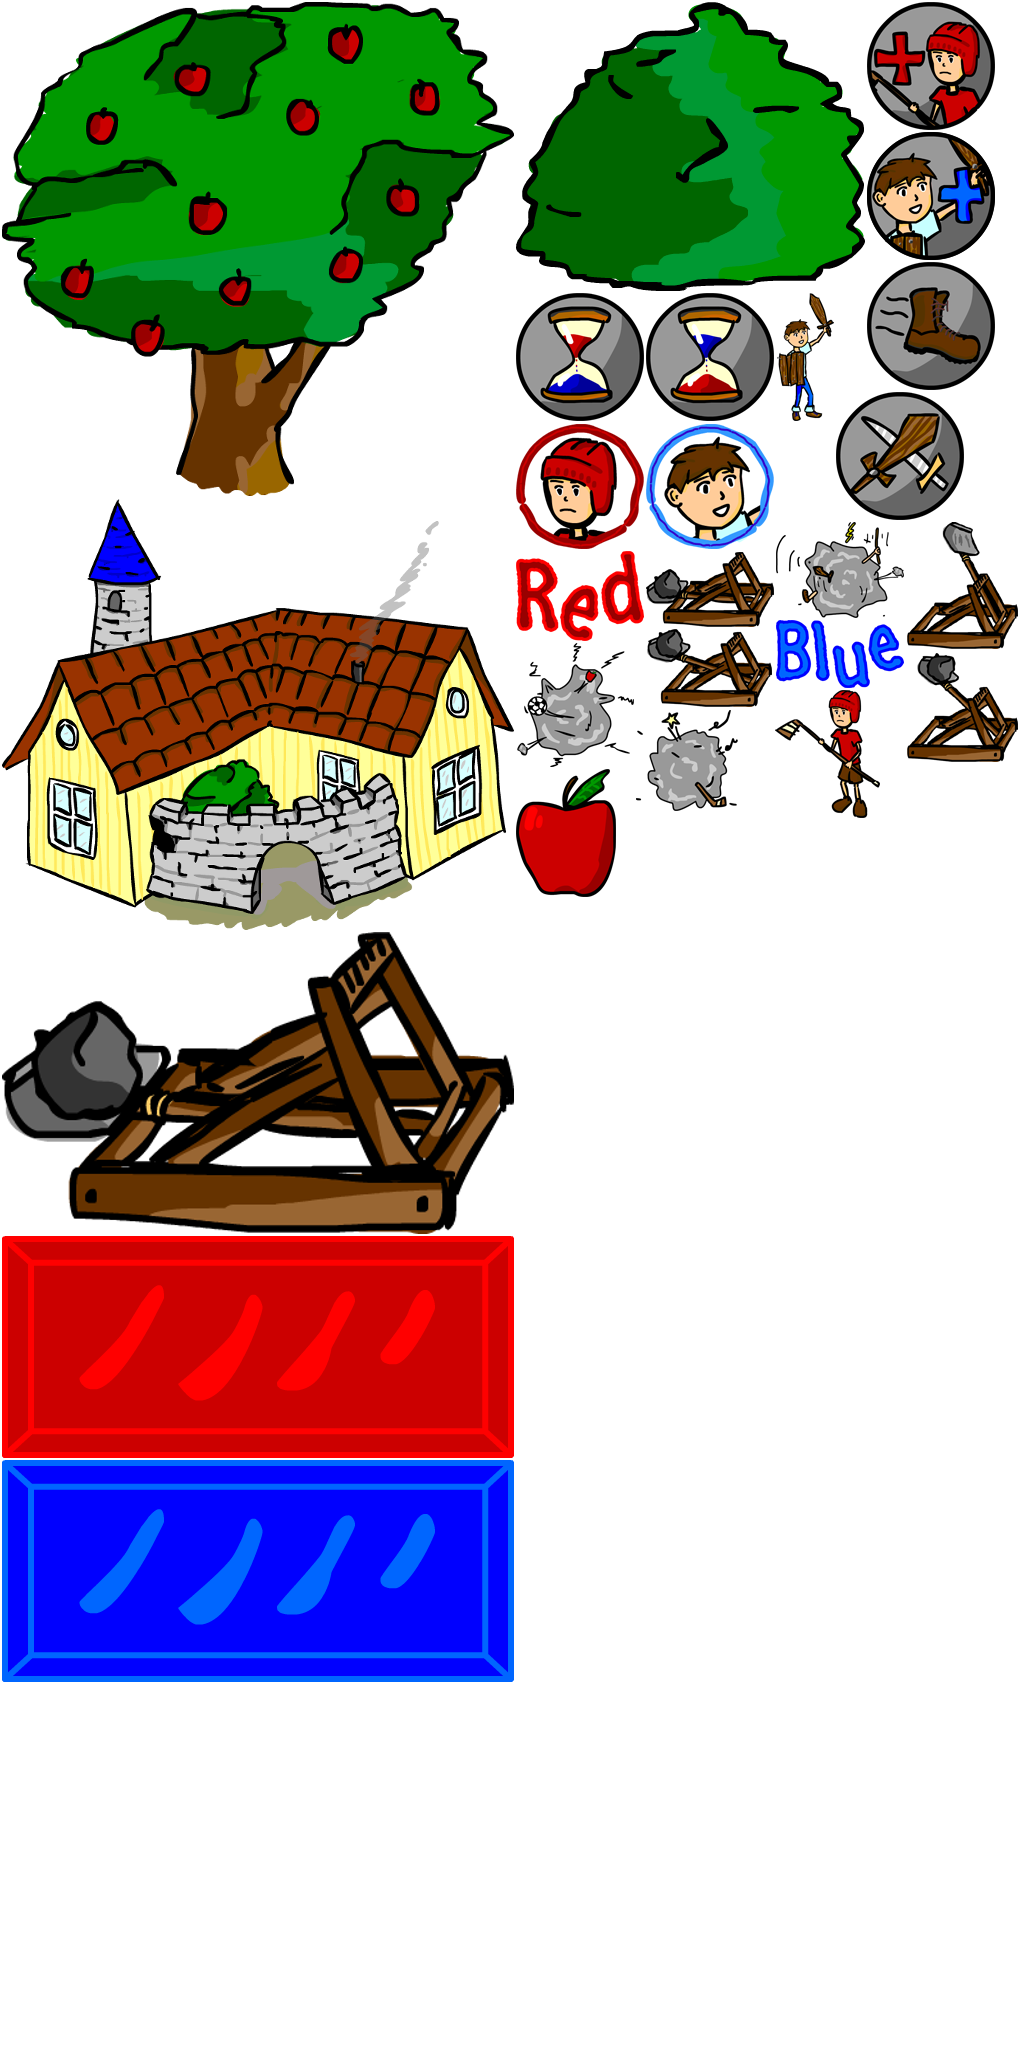
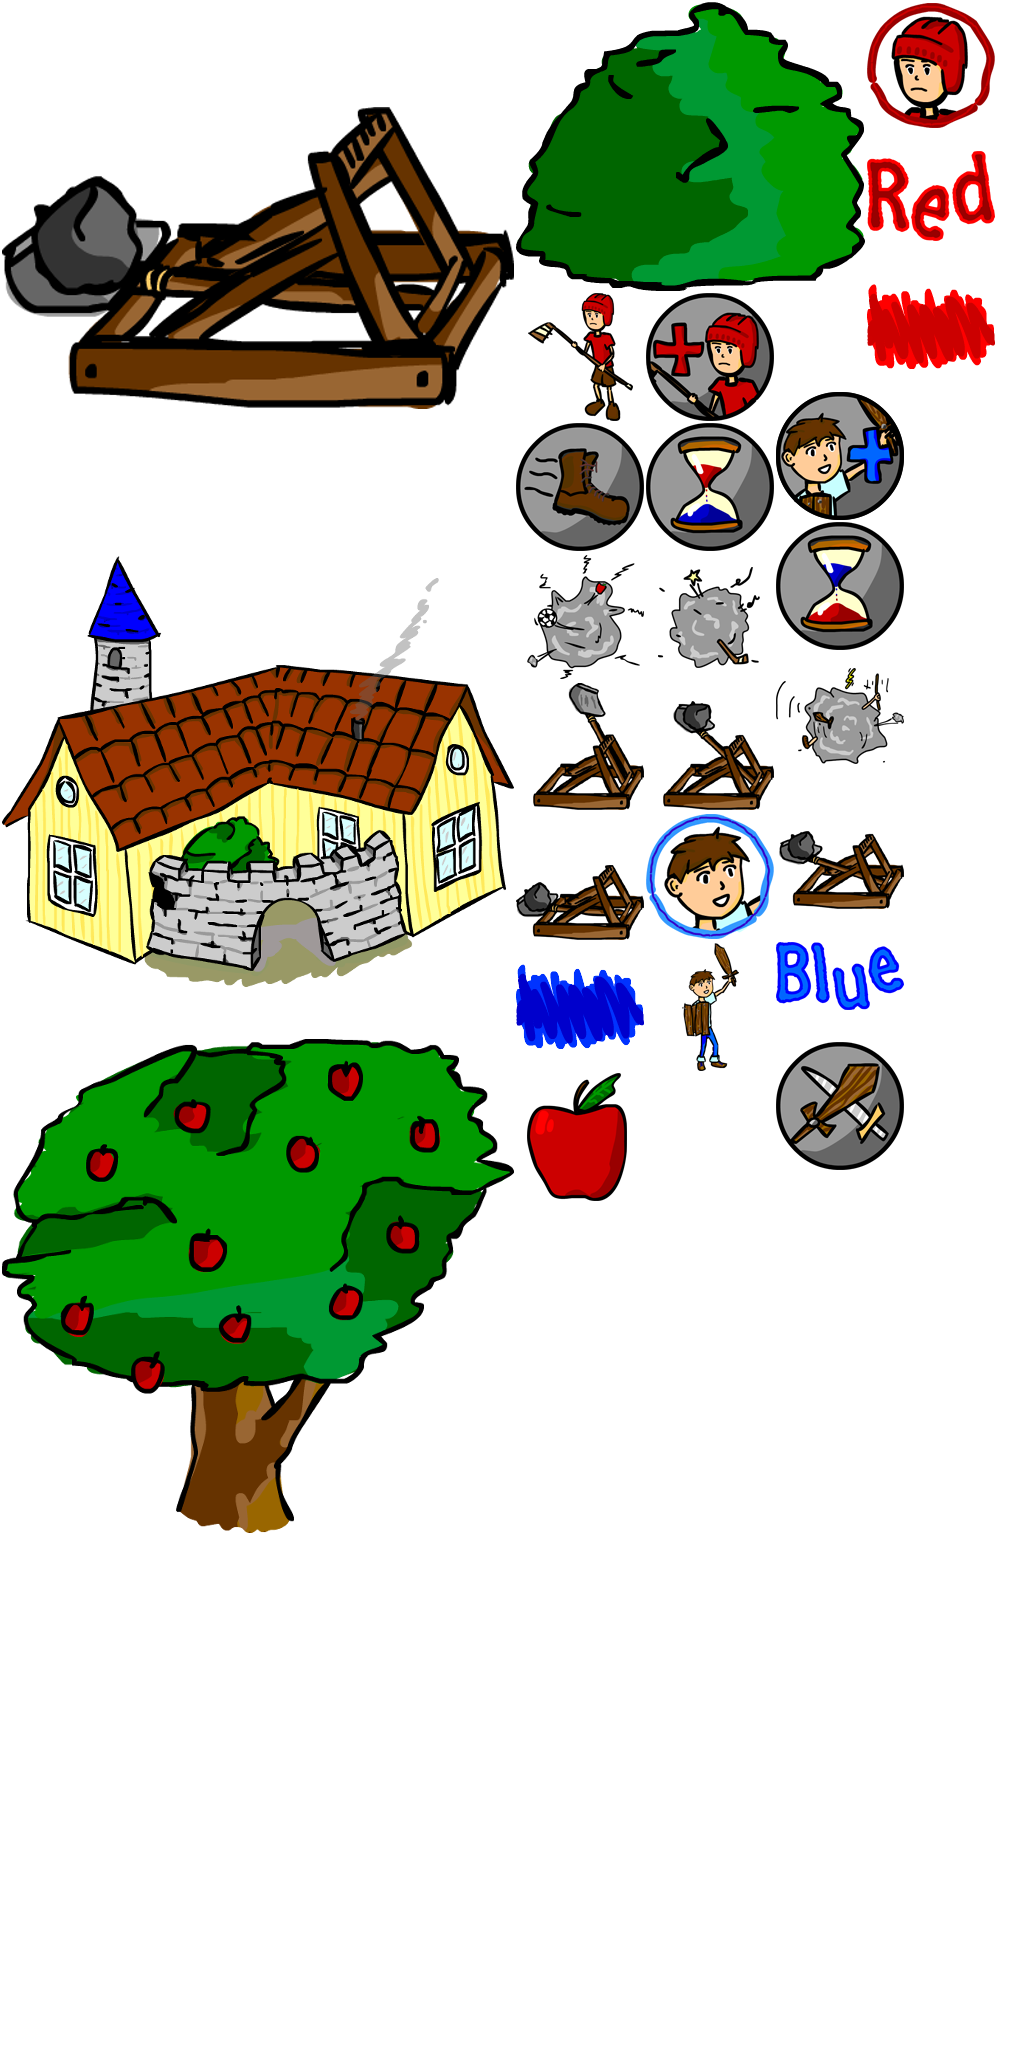
Added the catapult animation

diff --git a/childs-play/src/cloudymoose/childsplay/world/AnimationRunner.java b/childs-play/src/cloudymoose/childsplay/world/AnimationRunner.java
@@ -5,6 +5,9 @@ import java.util.HashMap;
 import java.util.List;
 import java.util.Map;
 
+import cloudymoose.childsplay.world.units.Unit;
+
+import com.badlogic.gdx.Gdx;
 import com.badlogic.gdx.assets.AssetManager;
 import com.badlogic.gdx.audio.Sound;
 import com.badlogic.gdx.graphics.g2d.Animation;
@@ -20,6 +23,7 @@ public class AnimationRunner {
 
 	public AnimationRunner(TextureAtlas atlas, AssetManager am) {
 		animations.put(AnimationType.Melee, new Animation(0.05f, atlas.findRegions("Cloud"), Animation.LOOP));
+		animations.put(AnimationType.CatapultFire, new Animation(0.3f, atlas.findRegions("CatapultFire")));
 		sounds.put(AnimationType.Melee, am.get("sounds/fight.mp3", Sound.class));
 	}
 
@@ -38,15 +42,40 @@ public class AnimationRunner {
 		boolean block = false;
 
 		for (AnimationData data : ongoingAnimations) {
+			for (Unit u : data.toHide) {
+				u.setVisible(false);
+			}
+
 			data.stateTime += dt;
 			Animation a = animations.get(data.type);
 			TextureRegion texture = a.getKeyFrame(data.stateTime);
-			sb.draw(texture, data.position.x - texture.getRegionWidth() / 2,
-					data.position.y - texture.getRegionHeight() / 2);
+
+			float xRatio = data.type.maxWidth / texture.getRegionWidth();
+			float yRatio = data.type.maxHeight / texture.getRegionHeight();
+
+			float drawWidth, drawHeight;
+			if (xRatio < yRatio) {
+				drawWidth = data.type.maxWidth;
+				drawHeight = texture.getRegionHeight() * xRatio;
+			} else if (yRatio != Float.POSITIVE_INFINITY) {
+				drawWidth = texture.getRegionWidth() * yRatio;
+				drawHeight = data.type.maxHeight;
+			} else {
+				drawWidth = texture.getRegionWidth();
+				drawHeight = texture.getRegionHeight();
+			}
+
+			Gdx.app.log("AR", drawWidth + " " + drawHeight);
+
+			sb.draw(texture, data.position.x - drawWidth / 2,
+					data.position.y - drawHeight / 2, drawWidth, drawHeight);
 
 			if (!data.loop) {
 				if (a.isAnimationFinished(data.stateTime)) {
 					finishedAnimations.add(data);
+					for (Unit u : data.toHide) {
+						u.setVisible(true);
+					}
 				} else {
 					block = block || data.isBlocking;
 				}

diff --git a/childs-play/src/cloudymoose/childsplay/world/WorldRenderer.java b/childs-play/src/cloudymoose/childsplay/world/WorldRenderer.java
@@ -2,6 +2,7 @@ package cloudymoose.childsplay.world;
 
 import java.util.HashMap;
 import java.util.Map;
+import java.util.Queue;
 
 import cloudymoose.childsplay.world.commands.MoveCommand;
 import cloudymoose.childsplay.world.hextiles.HexTile;
@@ -60,7 +61,7 @@ public class WorldRenderer {
 		MoveCommand.Sounds.add(assetManager.get("sounds/hereWeGo.mp3", Sound.class));
 		MoveCommand.Sounds.add(assetManager.get("sounds/yes.mp3", Sound.class));
 
-		unitTextures.put(Catapult.class, new TexturePair(atlasUI.findRegion("catapult")));
+		unitTextures.put(Catapult.class, new TexturePair(atlasUI.findRegion("CatapultFire")));
 		unitTextures.put(Castle.class, new TexturePair(atlasUI.findRegion("castle")));
 		unitTextures.put(Child.class,
 				new TexturePair(atlasUI.findRegion("BlueChild"), atlasUI.findRegion("RedChild")));
@@ -78,6 +79,7 @@ public class WorldRenderer {
 		if (world.getPreferredCameraFocus() != null) {
 			// TODO: jumps at the beginning. It should be smoothed or something...
 			setCameraPosition(world.getPreferredCameraFocus());
+			world.setPreferredCameraFocus(null);
 		}
 
 		sb.begin();
@@ -101,7 +103,7 @@ public class WorldRenderer {
 
 			// Render units
 			Unit unit = tile.value.getOccupant();
-			if (unit != null) {
+			if (unit != null && unit.isVisible()) {
 				this.renderUnit(sb, unit, Constants.PLAYER_COLORS[unit.getPlayerId()]);
 
 			}
@@ -155,8 +157,10 @@ public class WorldRenderer {
 		sb.draw(flag, tilePosition.x - drawXOffset, tilePosition.y, drawWidth, drawHeight);
 	}
 
-	public void addAnimationData(AnimationData data) {
-		animationRunner.addAnimationData(data);
+	public void addAnimationData(Queue<AnimationData> data) {
+		while (!data.isEmpty()) {
+			animationRunner.addAnimationData(data.remove());
+		}
 	}
 
 	private void renderUnit(SpriteBatch sb, Unit unit, Color color) {

diff --git a/childs-play/src/cloudymoose/childsplay/world/World.java b/childs-play/src/cloudymoose/childsplay/world/World.java
@@ -54,6 +54,7 @@ public class World {
 	// Command execution and creation data
 	private CommandBuilder selectedCommandBuilder;
 	private CommandRunner ongoingCommand;
+	private final Queue<AnimationData> ongoingAnimationData = new LinkedList<AnimationData>();
 	public final Set<HexTile<?>> targetableTiles = new HashSet<HexTile<?>>();
 	private Vector3 preferredCameraFocus;
 
@@ -115,9 +116,8 @@ public class World {
 		}
 	}
 
-	public AnimationData getOngoingAnimationData() {
-		if (ongoingCommand == null) return null;
-		return ongoingCommand.getAnimationData();
+	public Queue<AnimationData> getOngoingAnimationData() {
+		return ongoingAnimationData;
 	}
 
 	/** Environment stuff: area control etc. */
@@ -126,7 +126,7 @@ public class World {
 		Set<Area> areaSet = new HashSet<Area>();
 		for (Area a : map.areas) {
 			if (a.getOwner() == currentPlayer && !a.isContested()) {
-				a.getBenefits(this);
+				ongoingAnimationData.addAll(a.getBenefits(this));
 				areaSet.add(a);
 			}
 		}
@@ -220,6 +220,7 @@ public class World {
 		// Start the command
 		ongoingCommand = command.execute(this);
 		ongoingCommand.start();
+		ongoingAnimationData.add(ongoingCommand.getAnimationData());
 
 		if (!replayMode) {
 			// Register it
@@ -360,6 +361,11 @@ public class World {
 			if (p.id == id) return p;
 		}
 		return null;
+	}
+
+	public void setPreferredCameraFocus(Vector3 position) {
+		preferredCameraFocus = position == null ? null : new Vector3(position);
+
 	}
 
 }

diff --git a/childs-play/src/cloudymoose/childsplay/world/commands/AttackCommand.java b/childs-play/src/cloudymoose/childsplay/world/commands/AttackCommand.java
@@ -3,7 +3,6 @@ package cloudymoose.childsplay.world.commands;
 import cloudymoose.childsplay.world.AnimationData;
 import cloudymoose.childsplay.world.AnimationType;
 import cloudymoose.childsplay.world.World;
-import cloudymoose.childsplay.world.units.Child;
 import cloudymoose.childsplay.world.units.Unit;
 
 import com.badlogic.gdx.math.Vector3;
@@ -64,9 +63,9 @@ public class AttackCommand extends Command {
 		@Override
 		public AnimationData getAnimationData() {
 			// Return it only once.
-			if (meleeAnimation == null && target instanceof Child) {
+			if (meleeAnimation == null) {
 				Vector3 meleePosition = new Vector3(actor.position).add(target.position).scl(.5f);
-				meleeAnimation = new AnimationData(AnimationType.Melee, meleePosition, true, true);
+				meleeAnimation = new AnimationData(AnimationType.Melee, meleePosition, true, true, actor, target);
 
 				// Stop looping the animation in a second using this ugly thread hack
 				Runnable turnOffLoop = new Runnable() {
@@ -74,7 +73,8 @@ public class AttackCommand extends Command {
 					public void run() {
 						try {
 							Thread.sleep(1000);
-						} catch (InterruptedException e) { }
+						} catch (InterruptedException e) {
+						}
 						meleeAnimation.loop = false;
 					}
 				};

diff --git a/childs-play/src/cloudymoose/childsplay/screens/hud/HPBars.java b/childs-play/src/cloudymoose/childsplay/screens/hud/HPBars.java
@@ -4,7 +4,6 @@ import cloudymoose.childsplay.world.Constants;
 import cloudymoose.childsplay.world.Player;
 
 import com.badlogic.gdx.assets.AssetManager;
-import com.badlogic.gdx.graphics.Texture;
 import com.badlogic.gdx.graphics.g2d.TextureAtlas;
 import com.badlogic.gdx.graphics.g2d.TextureRegion;
 import com.badlogic.gdx.scenes.scene2d.ui.Image;
@@ -40,10 +39,8 @@ public class HPBars extends Table {
 		// debug();
 		int nbCells = (Constants.PLAYER_HEALTH_POINTS * 2) + 1; // 1 for each HP + 1 for the labels
 		TextureAtlas atlas = assetManager.get(Constants.UNITS_ICONS_ATLAS_PATH);
-		// blueHpTexture = atlas.findRegion("BlueHp");
-		// redHpTexture = atlas.findRegion("RedHp");
-		blueHpTexture = new TextureRegion((Texture) assetManager.get("game/BlueLife.png"));
-		redHpTexture = new TextureRegion((Texture) assetManager.get("game/RedLife.png"));
+		blueHpTexture = atlas.findRegion("BlueLife");
+		redHpTexture = atlas.findRegion("RedLife");
 
 		blueHp = blue.getHp();
 		redHp = red.getHp();

diff --git a/childs-play/src/cloudymoose/childsplay/world/units/Catapult.java b/childs-play/src/cloudymoose/childsplay/world/units/Catapult.java
@@ -1,5 +1,7 @@
 package cloudymoose.childsplay.world.units;
 
+import cloudymoose.childsplay.world.AnimationData;
+import cloudymoose.childsplay.world.AnimationType;
 import cloudymoose.childsplay.world.Player;
 import cloudymoose.childsplay.world.World;
 
@@ -11,10 +13,12 @@ public class Catapult extends EnvironmentUnit {
 	}
 
 	@Override
-	public void doEnvironmentalEffect(World world) {
-		for (Player p : world.getEnemyPlayers(world.getCurrentPlayer(), false)) {
+	public AnimationData doEnvironmentalEffect(World world) {
+		for (Player p : world.getEnemyPlayers(world.getCurrentPlayer(), true)) {
 			p.hit();
 		}
+		// return new AnimationData(AnimationType.CatapultFire, new Vector3(hitbox.x, hitbox.y, 0), true, false);
+		return new AnimationData(AnimationType.CatapultFire, position, true, false, this);
 	}
 
 }

diff --git a/childs-play/src/cloudymoose/childsplay/ChildsPlayGame.java b/childs-play/src/cloudymoose/childsplay/ChildsPlayGame.java
@@ -22,7 +22,6 @@ import com.badlogic.gdx.Gdx;
 import com.badlogic.gdx.InputMultiplexer;
 import com.badlogic.gdx.assets.AssetManager;
 import com.badlogic.gdx.audio.Sound;
-import com.badlogic.gdx.graphics.Texture;
 import com.badlogic.gdx.graphics.g2d.TextureAtlas;
 import com.badlogic.gdx.scenes.scene2d.ui.Skin;
 
@@ -111,8 +110,6 @@ public class ChildsPlayGame extends Game {
 		am.load(Constants.MENU_SKIN_JSON_PATH, Skin.class);
 		am.load(Constants.TILES_FLAGS_ATLAS_PATH, TextureAtlas.class);
 		am.load(Constants.UNITS_ICONS_ATLAS_PATH, TextureAtlas.class);
-		am.load("game/BlueLife.png", Texture.class);
-		am.load("game/RedLife.png", Texture.class);
 
 		am.load("sounds/fight.mp3", Sound.class);
 		am.load("sounds/ok.mp3", Sound.class);

diff --git a/childs-play/src/cloudymoose/childsplay/world/Area.java b/childs-play/src/cloudymoose/childsplay/world/Area.java
@@ -1,6 +1,7 @@
 package cloudymoose.childsplay.world;
 
 import java.util.AbstractCollection;
+import java.util.ArrayList;
 import java.util.Collection;
 import java.util.HashSet;
 import java.util.Iterator;
@@ -142,10 +143,13 @@ public class Area extends AbstractCollection<HexTile<TileData>> {
 		}
 	}
 
-	public void getBenefits(World world) {
+	public List<AnimationData> getBenefits(World world) {
+		List<AnimationData> animations = new ArrayList<AnimationData>();
 		for (EnvironmentUnit eu : benefitProviders) {
-			eu.doEnvironmentalEffect(world);
+			AnimationData a = eu.doEnvironmentalEffect(world);
+			if (a != null) animations.add(a);
 		}
+		return animations;
 	}
 
 	public int getControlPoints() {

diff --git a/childs-play/src/cloudymoose/childsplay/world/units/Unit.java b/childs-play/src/cloudymoose/childsplay/world/units/Unit.java
@@ -20,6 +20,7 @@ public abstract class Unit {
 	public final int id;
 	public final int size;
 	public final Rectangle hitbox;
+	private boolean visible;
 
 	public final int maxHealthPoints;
 	private int currentHealthPoints;
@@ -36,6 +37,7 @@ public abstract class Unit {
 		this.size = size;
 		hitbox = new Rectangle(0, 0, size, size);
 		hitbox.setCenter(position.x, position.y);
+		visible = true;
 
 		maxHealthPoints = hp;
 		currentHealthPoints = hp;
@@ -157,6 +159,14 @@ public abstract class Unit {
 		setPosition(tile.getPosition());
 
 		return this;
+	}
+
+	public void setVisible(boolean visible) {
+		this.visible = visible;
+	}
+
+	public boolean isVisible() {
+		return visible;
 	}
 
 }

diff --git a/childs-play/src/cloudymoose/childsplay/screens/hud/GameHUD.java b/childs-play/src/cloudymoose/childsplay/screens/hud/GameHUD.java
@@ -2,6 +2,7 @@ package cloudymoose.childsplay.screens.hud;
 
 import cloudymoose.childsplay.ChildsPlayGame;
 import cloudymoose.childsplay.screens.AbstractMenuStageManager;
+import cloudymoose.childsplay.screens.GameScreen;
 import cloudymoose.childsplay.world.Constants;
 import cloudymoose.childsplay.world.Player;
 import cloudymoose.childsplay.world.TileData;
@@ -53,6 +54,7 @@ public class GameHUD extends AbstractMenuStageManager {
 		btnEnd.addListener(new ClickListener() {
 			@Override
 			public void clicked(InputEvent event, float x, float y) {
+				world.setPreferredCameraFocus(((GameScreen) screen).getWorldRenderer().cam.position);
 				game.endTurn();
 			}
 		});

diff --git a/childs-play/src/cloudymoose/childsplay/world/AnimationData.java b/childs-play/src/cloudymoose/childsplay/world/AnimationData.java
@@ -1,5 +1,7 @@
 package cloudymoose.childsplay.world;
 
+import cloudymoose.childsplay.world.units.Unit;
+
 import com.badlogic.gdx.math.Vector3;
 
 public class AnimationData {
@@ -10,11 +12,13 @@ public class AnimationData {
 	public Vector3 position;
 	public boolean loop;
 	public boolean isBlocking;
+	public Unit[] toHide;
 
-	public AnimationData(AnimationType type, Vector3 position, boolean blocking, boolean loop) {
+	public AnimationData(AnimationType type, Vector3 position, boolean blocking, boolean loop, Unit... toHide) {
 		this.type = type;
 		this.isBlocking = blocking;
 		this.loop = loop;
 		this.position = position;
+		this.toHide = toHide;
 	}
 }

diff --git a/childs-play/src/cloudymoose/childsplay/world/units/EnvironmentUnit.java b/childs-play/src/cloudymoose/childsplay/world/units/EnvironmentUnit.java
@@ -2,6 +2,7 @@ package cloudymoose.childsplay.world.units;
 
 import java.util.List;
 
+import cloudymoose.childsplay.world.AnimationData;
 import cloudymoose.childsplay.world.Player;
 import cloudymoose.childsplay.world.World;
 import cloudymoose.childsplay.world.commands.Command;
@@ -23,6 +24,6 @@ public abstract class EnvironmentUnit extends StaticUnit {
 	public void takeDamage(int damage) {
 	}
 
-	public abstract void doEnvironmentalEffect(World world);
+	public abstract AnimationData doEnvironmentalEffect(World world);
 
 }
